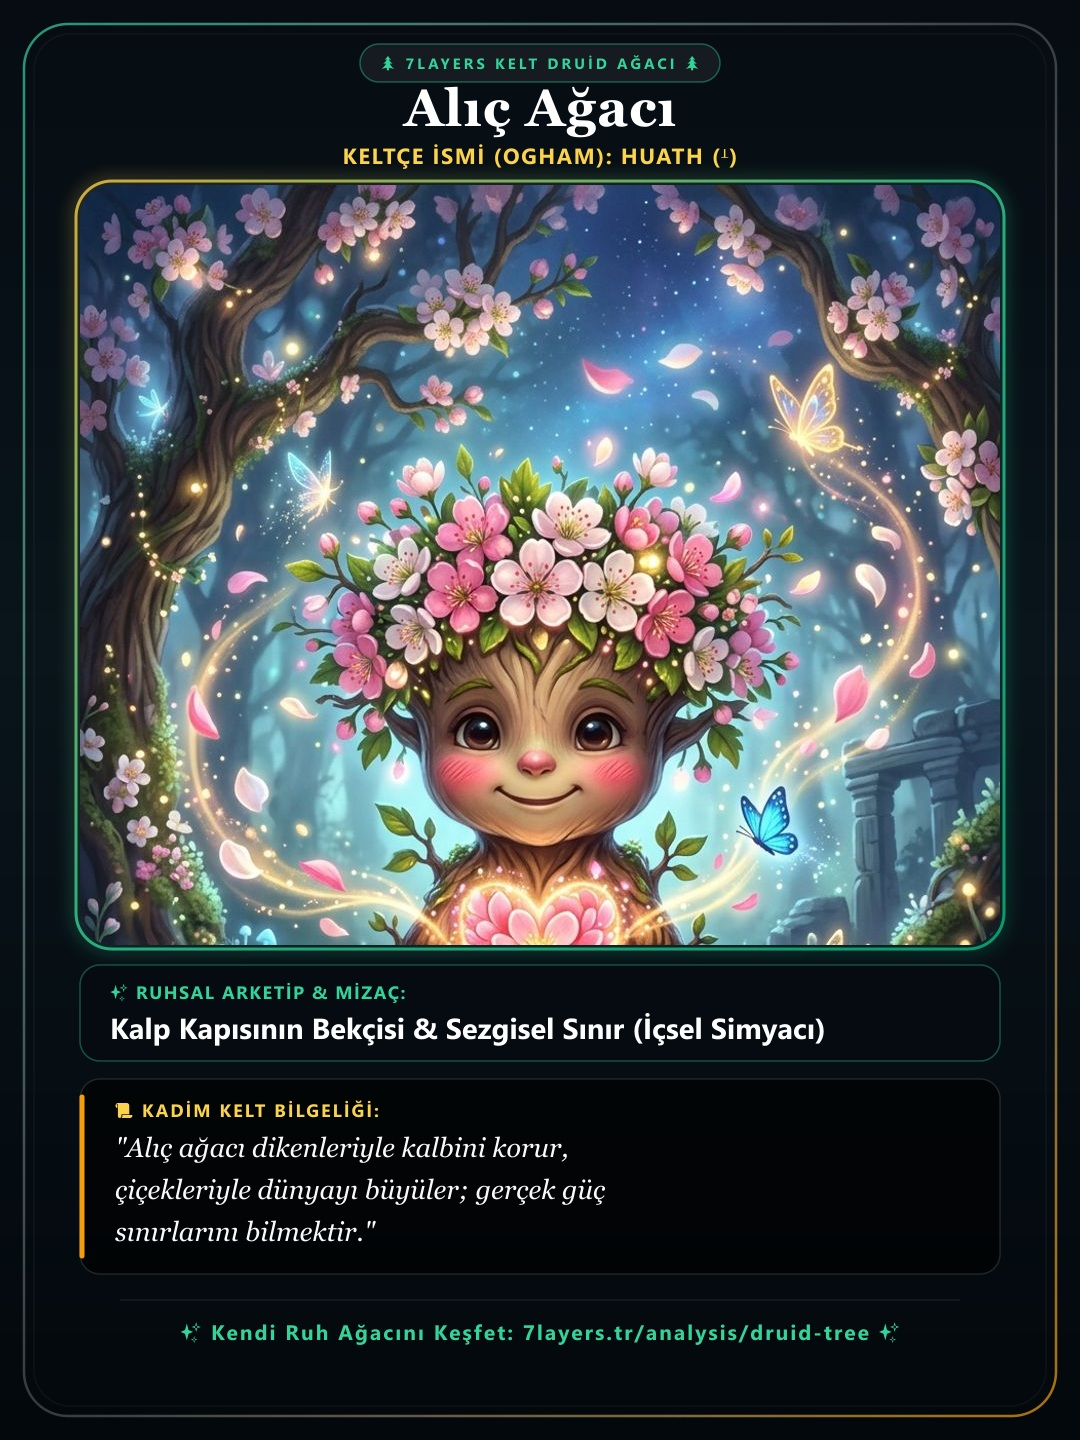
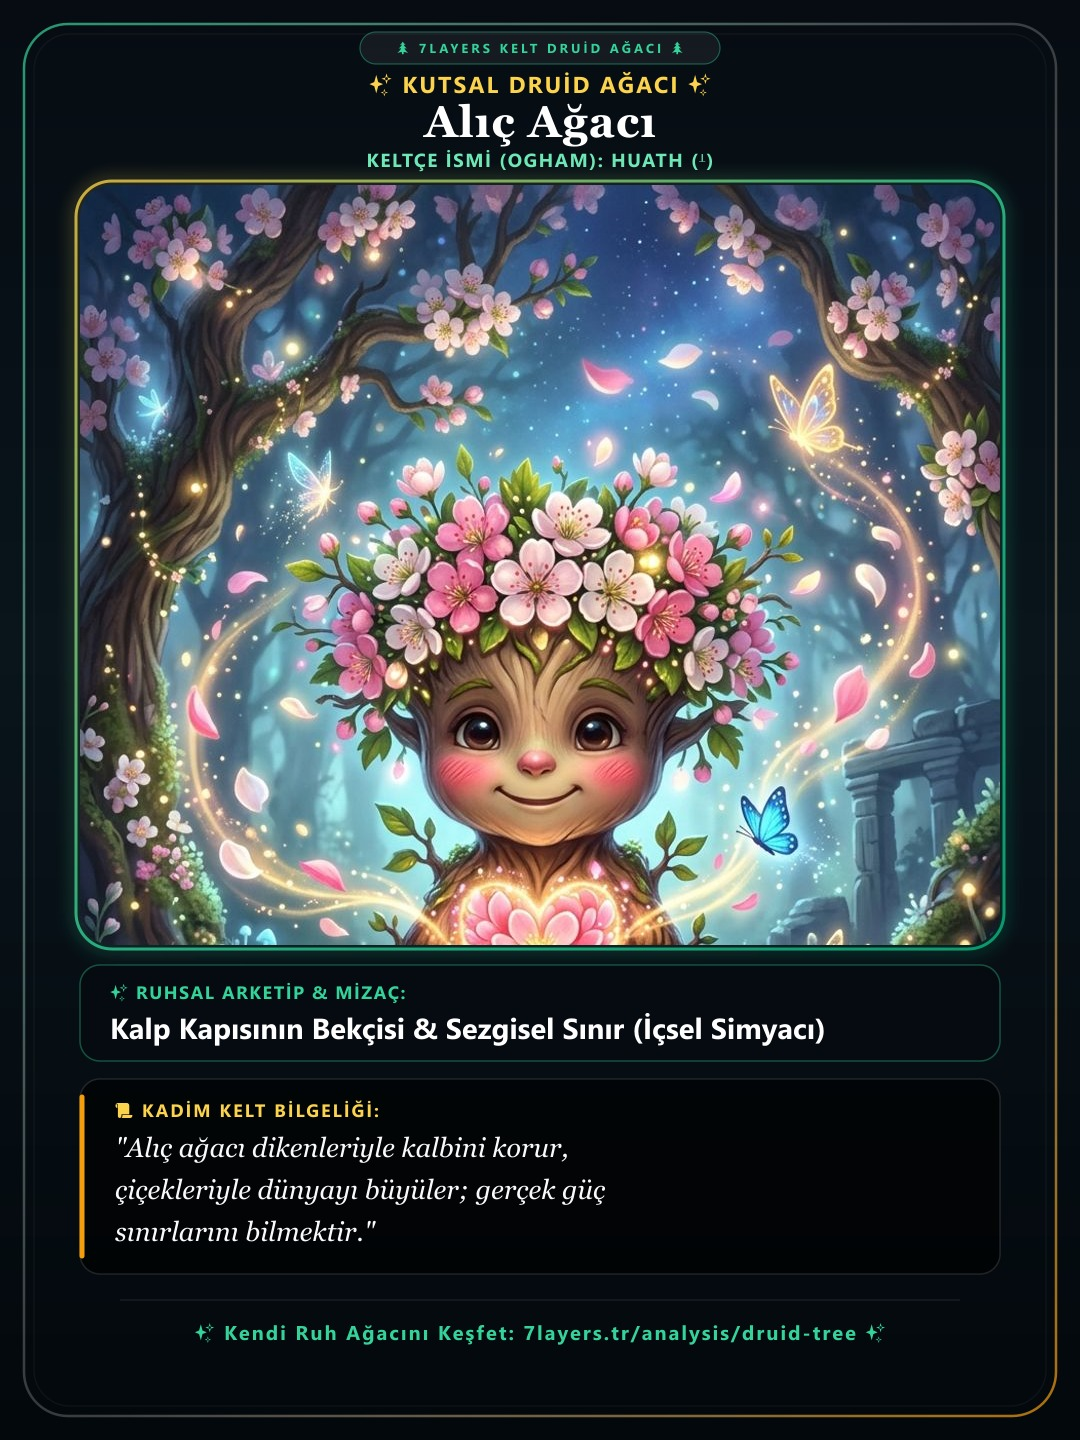
feat(druid-tree): sync personalized Druid Ağacı share message and assets

Changed region(s): [[0.3056, 0.0312, 0.6722, 0.125], [0.5194, 0.9062, 0.825, 0.9375], [0.1833, 0.9062, 0.4583, 0.9375]]

diff --git a/app/(dashboard)/kisisel-analizler/kelt-druid-agaci.tsx b/app/(dashboard)/kisisel-analizler/kelt-druid-agaci.tsx
@@ -67,12 +67,13 @@ export default function KeltDruidAgaciScreen() {
   const handleShare = async () => {
     if (!currentTree) return;
     try {
-      const message = `🌲 Kelt Druid Ağacı Analizim: ${currentTree.name} (${currentTree.oghamSymbol} ${currentTree.oghamName})\n` +
+      const cleanPrefix = analyzedName ? `${analyzedName}'in ` : '';
+      const message = `🌲 ${cleanPrefix}Kelt Druid Ağacı: ${currentTree.name} (${currentTree.oghamSymbol} ${currentTree.oghamName})\n` +
         `✨ Ruhsal Karakter: ${currentTree.archetype}\n` +
         `🪐 Yönetici Güç: ${currentTree.rulingPlanets} | Element: ${currentTree.element}\n` +
         `📜 Druid Bilgeliği: "${currentTree.druidicProverb}"\n\n` +
-        `Canlı Şirin Maskot & Detaylar: https://7layers.tr/analysis/druid-tree\n` +
-        `Sen de kendi kutsal Kelt ağacını hemen keşfet!`;
+        `Canlı Druid Ağacı & Detaylar: https://7layers.tr/analysis/druid-tree\n` +
+        `Sen de kendi kutsal Druid ağacını hemen keşfet!`;
 
       await Share.share({ 
         message,
